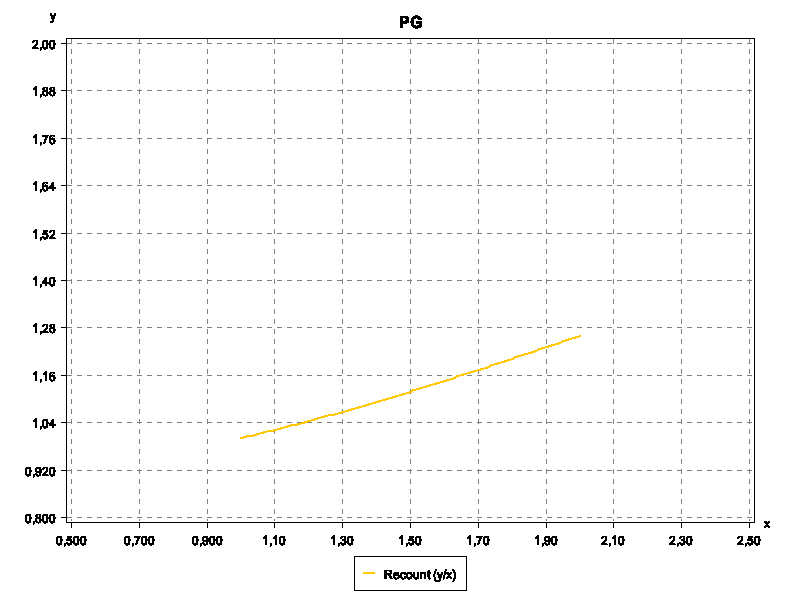
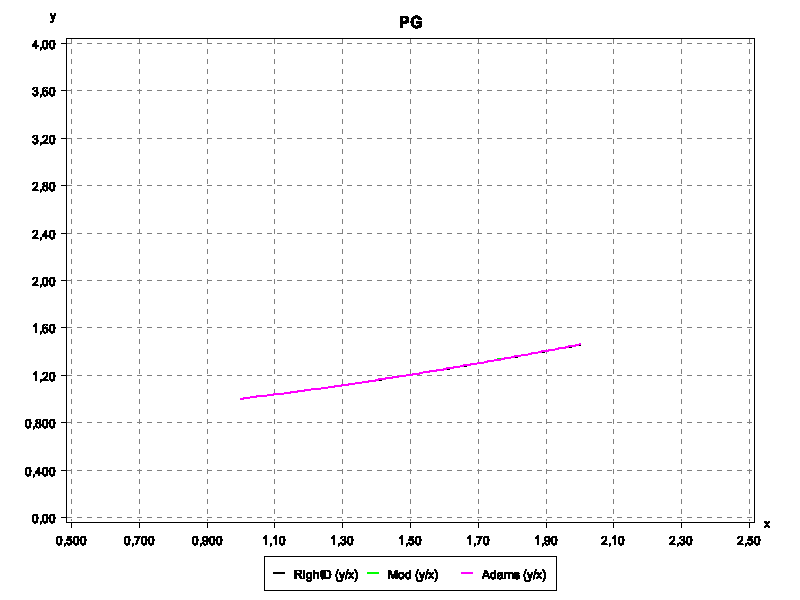
Добавлены методы для второго таска. Но проект не переписан для gradle pom поэтому при импорте врятли соберется

diff --git a/src/main/kotlin/controller/MainController.kt b/src/main/kotlin/controller/MainController.kt
@@ -2,6 +2,7 @@ package controller
 
 import Plot
 import javafx.fxml.FXML
+import javafx.scene.control.Alert
 import javafx.scene.control.Button
 import javafx.scene.control.CheckBox
 import javafx.scene.image.Image
@@ -25,8 +26,9 @@ class MainController {
     lateinit var modCheck: CheckBox
     lateinit var recountCheck: CheckBox
     lateinit var rightDiffsCheck: CheckBox
-    lateinit var leftDiffsCheck: CheckBox
     lateinit var centralDiffsCheck: CheckBox
+    lateinit var adamsCheck: CheckBox
+    lateinit var rungeKuttaCheck: CheckBox
     lateinit var hField: TextField
 
 
@@ -57,10 +59,6 @@ class MainController {
                 x[i+1] = x[i] + h
             }
 
-            if(buildOpts.leftDiffs){
-                val data = getLeftDiffsData(x, y.clone(), x.size, h)
-                plot.series("LeftD", data, Plot.seriesOpts().marker(Plot.Marker.NONE).color(Color.BLUE))
-            }
 
             if(buildOpts.rightDiffs){
                 val data = getRightDiffsData(x, y.clone(), x.size, h)
@@ -82,7 +80,15 @@ class MainController {
                 plot.series("Recount", data, Plot.seriesOpts().marker(Plot.Marker.NONE).color(Color.ORANGE))
             }
 
+            if(buildOpts.rungeKutta){
+                val data = getRungeKuttaData(x, y.clone(), x.size, h)
+                plot.series("RungeKutta", data, Plot.seriesOpts().marker(Plot.Marker.NONE).color(Color.PINK))
+            }
 
+            if(buildOpts.adams){
+                val data = getAdamsData(x, y.clone(), x.size, h)
+                plot.series("Adams", data, Plot.seriesOpts().marker(Plot.Marker.NONE).color(Color.MAGENTA))
+            }
 
 
             if(buildOpts.notAllEmpty()) {
@@ -90,6 +96,12 @@ class MainController {
                 val file = File("samp.png")
                 imgView.image = Image(file.toURI().toString())
 
+            } else {
+                val alert = Alert(Alert.AlertType.INFORMATION)
+                alert.title = "Хоспаде"
+                alert.headerText = "Шо за придурок"
+                alert.contentText = "Выбери хоть чонить. Чуть прогу не повалил"
+                alert.showAndWait()
             }
         }
 
@@ -98,9 +110,9 @@ class MainController {
 
 
     data class AxisParams(val xLSize: Double, val xRSize: Double, val yTSize:Double, val yBSize:Double)
-    data class BuildOpts(val mod: Boolean, val recount: Boolean, val rightDiffs: Boolean, val leftDiffs: Boolean, val centralDiffs: Boolean, val h: Double){
+    data class BuildOpts(val mod: Boolean, val recount: Boolean, val rightDiffs: Boolean, val centralDiffs: Boolean, val adams: Boolean, val rungeKutta: Boolean, val h: Double){
         fun notAllEmpty(): Boolean{
-            return (mod||recount||rightDiffs||leftDiffs||centralDiffs)
+            return (mod||recount||rightDiffs||centralDiffs||adams||rungeKutta)
         }
     }
 
@@ -122,20 +134,11 @@ class MainController {
     }
 
     fun getBuildOpts(): BuildOpts{
-        return BuildOpts(modCheck.isSelected, recountCheck.isSelected, rightDiffsCheck.isSelected, leftDiffsCheck.isSelected, centralDiffsCheck.isSelected, hField.text.toDouble())
+        return BuildOpts(modCheck.isSelected, recountCheck.isSelected, rightDiffsCheck.isSelected, centralDiffsCheck.isSelected, adamsCheck.isSelected, rungeKuttaCheck.isSelected, hField.text.toDouble())
     }
 
     fun getRightDiffsData(x: DoubleArray, y:DoubleArray, n: Int, h: Double): Plot.Data{
         val yRD = eulerRightDiffs(x, y, x.size, h)
-        val data = Plot.data()
-        for (i in 0..x.size - 1) {
-            data.xy(x[i], yRD[i])
-        }
-        return data
-    }
-
-    fun getLeftDiffsData(x: DoubleArray, y:DoubleArray, n: Int, h: Double): Plot.Data{
-        val yRD = eulerLeftDiffs(x, y, x.size, h)
         val data = Plot.data()
         for (i in 0..x.size - 1) {
             data.xy(x[i], yRD[i])
@@ -163,6 +166,24 @@ class MainController {
 
     fun getRecountData(x: DoubleArray, y:DoubleArray, n: Int, h: Double): Plot.Data{
         val yRD = eulerRecount(x, y, x.size, h)
+        val data = Plot.data()
+        for (i in 0..x.size - 1) {
+            data.xy(x[i], yRD[i])
+        }
+        return data
+    }
+
+    fun getRungeKuttaData(x: DoubleArray, y: DoubleArray, n: Int, h: Double): Plot.Data{
+        val yRD = rungeKutta(x, y, x.size, h)
+        val data = Plot.data()
+        for (i in 0..x.size - 1) {
+            data.xy(x[i], yRD[i])
+        }
+        return data
+    }
+
+    fun getAdamsData(x: DoubleArray, y: DoubleArray, n: Int, h: Double): Plot.Data{
+        val yRD = adams(x, y, x.size, h)
         val data = Plot.data()
         for (i in 0..x.size - 1) {
             data.xy(x[i], yRD[i])

diff --git a/src/main/kotlin/controller/Methods.kt b/src/main/kotlin/controller/Methods.kt
@@ -13,14 +13,6 @@ package controller
         return y
     }
 
-    fun eulerLeftDiffs(x: DoubleArray, y:DoubleArray, n: Int, h: Double): DoubleArray{
-        for(i in 0..y.size-2){
-            y[i+1] = y[i] + h*f(x[i+1], y[i+1])
-            print(x[i].toString()+ ", " +y[i].toString())
-            println()
-        }
-        return y
-    }
 
     fun eulerCentralDiffs(x: DoubleArray, y:DoubleArray, n: Int, h: Double): DoubleArray{
         y[1] = y[0] + h*f(x[0], y[0])
@@ -45,3 +37,37 @@ package controller
         }
         return y
     }
+
+    fun rungeKutta(x: DoubleArray, y:DoubleArray, n: Int, h: Double): DoubleArray {
+        for(i in 0..y.size-2) {
+            val k0 = f(x[i], y[i]);
+            val k1 = f(x[i] + h / 2, y[i] + h * k0 / 2);
+            val k2 = f(x[i] + h / 2, y[i] + h * k1 / 2);
+            val k3 = f(x[i] + h, y[i] + h * k2);
+            y[i + 1] = y[i] + h / 6 * (k0 + 2 * k1 + 2 * k2 + k3);
+        }
+        return y
+    }
+
+    fun adams(x: DoubleArray, y:DoubleArray, n: Int, h: Double): DoubleArray {
+        val f: DoubleArray = DoubleArray(x.size)
+        f[0] = f(x[0],y[0])
+        x[1] = x[0]+h
+        y[1] = y[0]+h*f[0]
+        f[1] = f(x[1],y[1])
+        x[2] = x[1]+h
+        y[2] = y[1]+h*(3/2*f[1]-1/2*f[0])
+        f[2] = f(x[2],y[2])
+        x[3] = x[2]+h
+        y[3] = y[2]+h/12*(23*f[2]-16*f[1]+5*f[0])
+        f[3] = f(x[3],y[3])
+        for(i in 3..x.size-2){
+            y[i+1] = y[i]+h/24*(55*f[i]-59*f[i-1]+37*f[i-2]-9*f[i-3])
+            x[i+1] = x[i]+h
+            f[i+1] = f(x[i+1],y[i+1])
+        }
+
+        return y
+    }
+
+

diff --git a/src/main/kotlin/Main.kt b/src/main/kotlin/Main.kt
@@ -12,7 +12,7 @@ class Main : Application() {
     val layout = "main.fxml"
 
     override fun start(primaryStage: Stage?) {
-        //System.setProperty("prism.lcdtext", "false") // for beautiful fonts on linux
+        System.setProperty("prism.lcdtext", "false") // for beautiful fonts on linux
         primaryStage?.scene = Scene(load<Parent?>(Main.javaClass.getResource(layout)))
         primaryStage?.show()
     }
